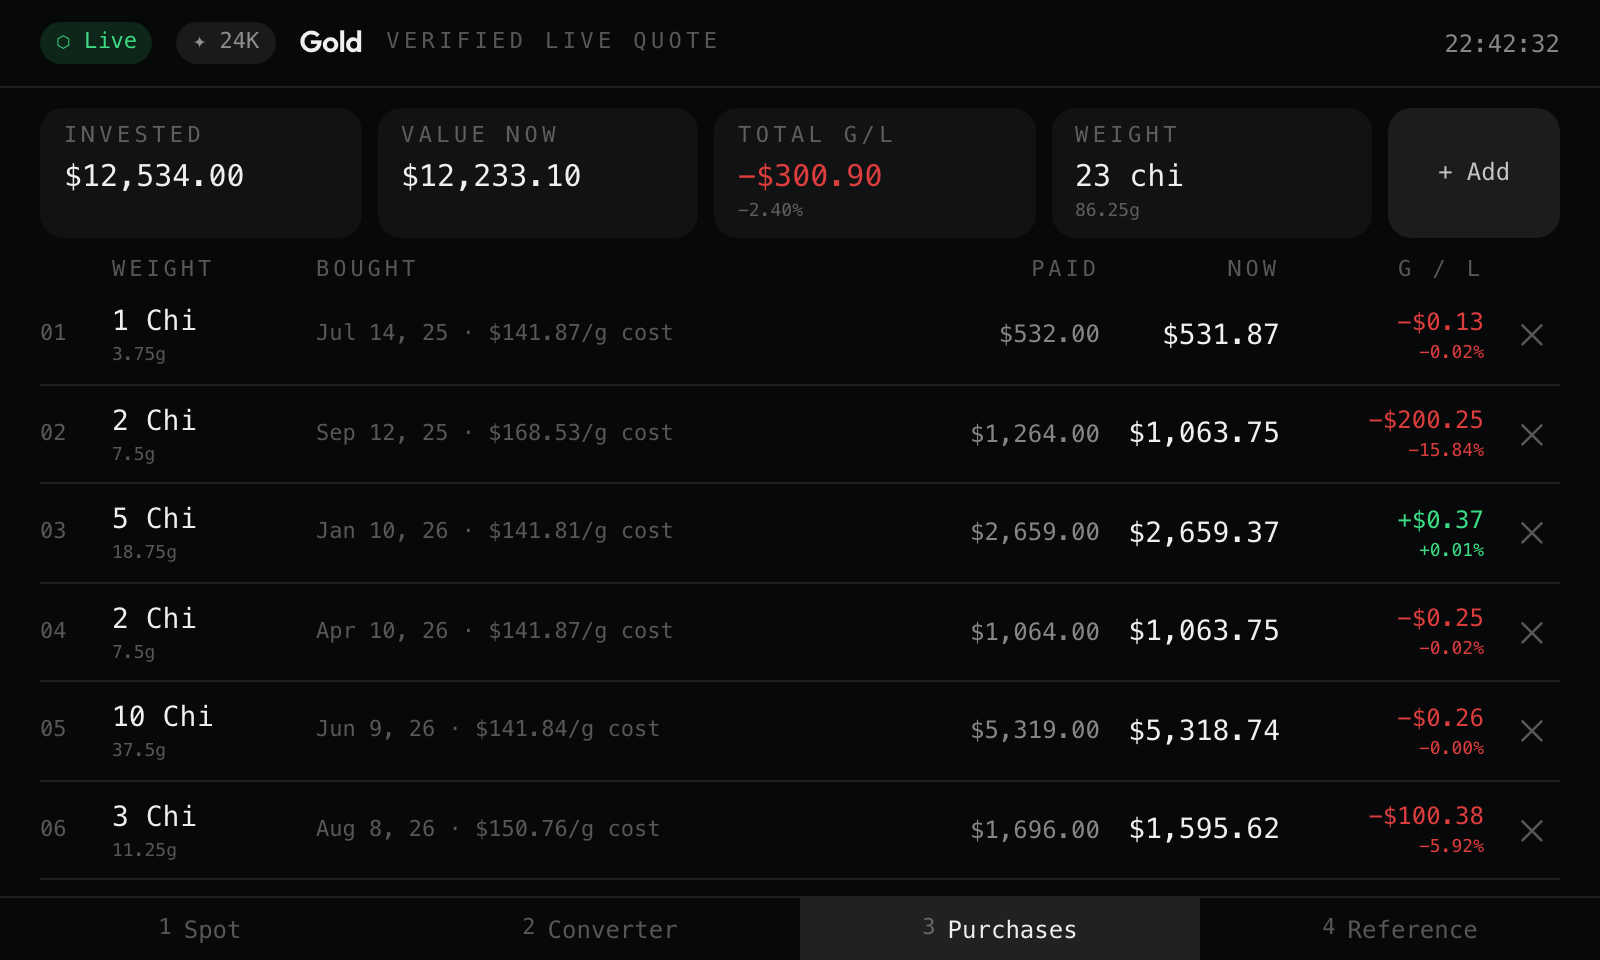
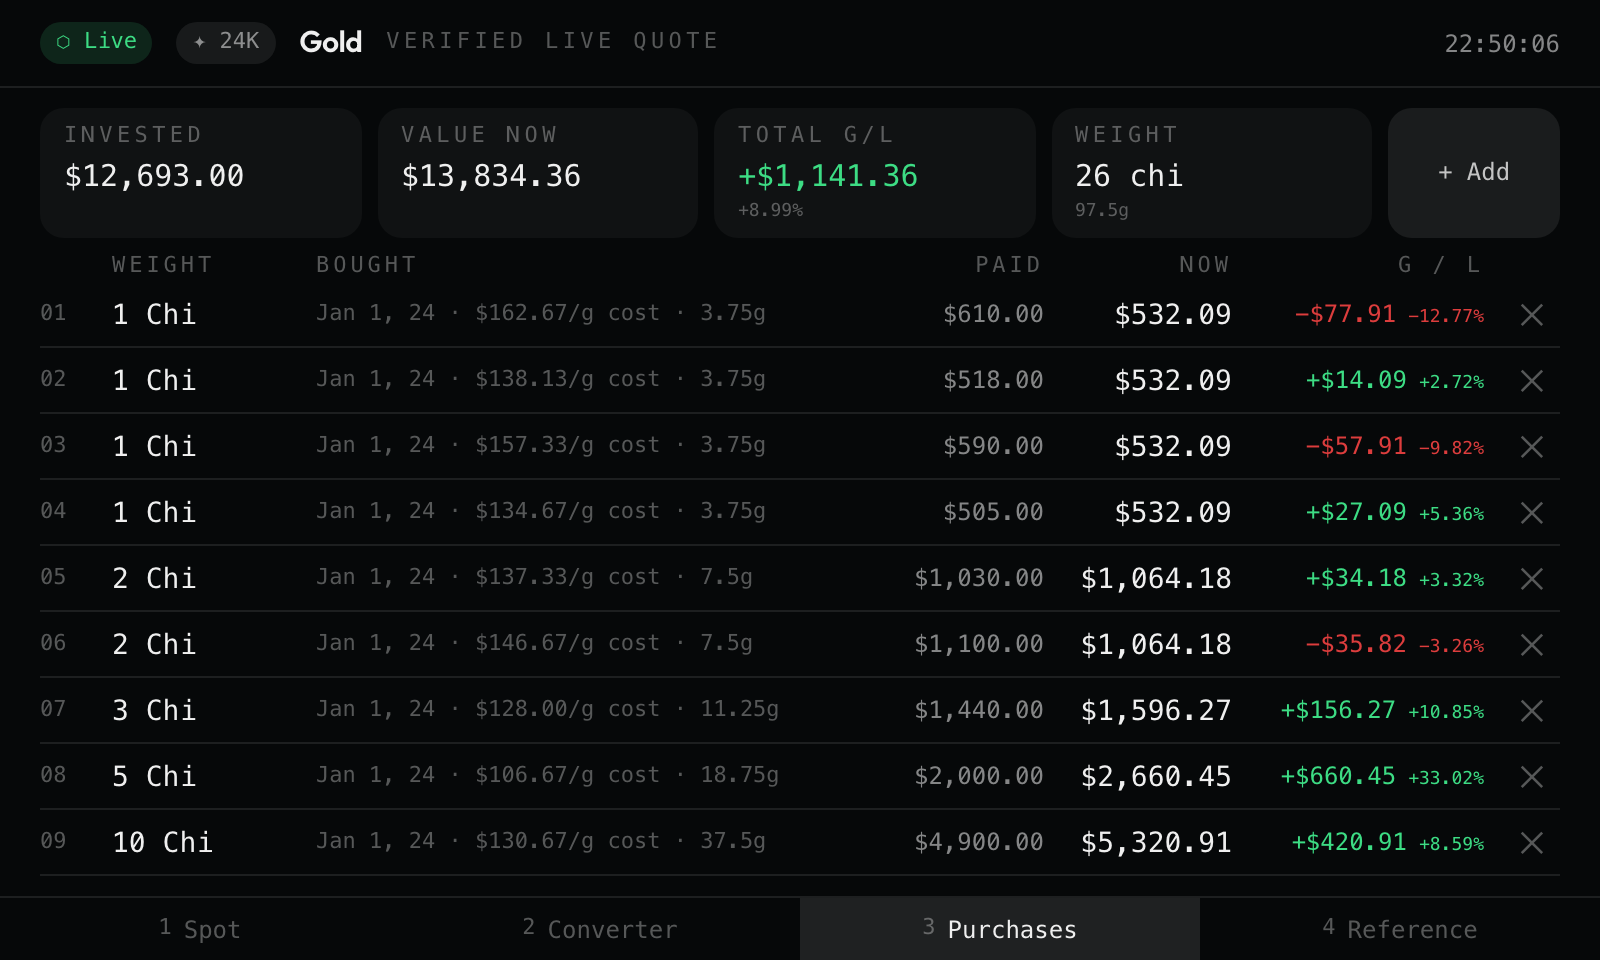
gold-tracker 0.2.0: fit a real holding, and read a CSV
Nine positions paged at six and the ninth row sat under the nav bar. Past six
the rows now go compact and the whole ledger sits on one screen, and the gain
column is wide enough that a loss and its percentage stay on one line rather
than wrapping.

The companion app reads and writes Weight,Unit,Paid,Date, which is what a
spreadsheet exports, so a ledger does not have to be entered on the steppers.

Claude-Session: https://claude.ai/code/session_01DCTuCWNjLE3xwYkahcyuiq

diff --git a/apps/gold-tracker/src/App.tsx b/apps/gold-tracker/src/App.tsx
@@ -639,7 +639,9 @@ function Convert({
   );
 }
 
-const LEDGER_ROWS = 6;
+/** a short ledger gets room to breathe; a long one goes compact so the whole holding fits on screen */
+const ROOMY_ROWS = 6;
+const COMPACT_ROWS = 9;
 
 function Ledger({
   positions,
@@ -661,9 +663,11 @@ function Ledger({
   const value = grams * gramPrice;
   const gain = value - invested;
   const pct = invested > 0 ? (gain / invested) * 100 : 0;
-  const maxScroll = Math.max(0, positions.length - LEDGER_ROWS);
+  const compact = positions.length > ROOMY_ROWS;
+  const perPage = compact ? COMPACT_ROWS : ROOMY_ROWS;
+  const maxScroll = Math.max(0, positions.length - perPage);
   const top = Math.min(scroll, maxScroll);
-  const shown = positions.slice(top, top + LEDGER_ROWS);
+  const shown = positions.slice(top, top + perPage);
 
   return (
     <div className="flex h-full flex-col px-5 py-2.5">
@@ -680,13 +684,16 @@ function Ledger({
       </div>
 
       {positions.length > 0 && (
-        <div className="mt-2 flex items-center gap-2.5 font-mono text-eyebrow tracking-[0.18em] text-dim uppercase">
+        <div
+          className={`flex items-center gap-2.5 font-mono text-eyebrow tracking-[0.18em] text-dim uppercase ${
+            compact ? 'mt-1.5' : 'mt-2'
+          }`}>
           <span className="w-[26px] shrink-0" />
           <span className="w-[92px] shrink-0">Weight</span>
           <span className="min-w-0 flex-1">Bought</span>
-          <span className="w-[76px] shrink-0 text-right">Paid</span>
-          <span className="w-[80px] shrink-0 text-right">Now</span>
-          <span className="w-[92px] shrink-0 text-right">G / L</span>
+          <span className="w-[72px] shrink-0 text-right">Paid</span>
+          <span className="w-[84px] shrink-0 text-right">Now</span>
+          <span className="w-[116px] shrink-0 text-right">G / L</span>
           <span className="w-7 shrink-0" />
         </div>
       )}
@@ -696,18 +703,21 @@ function Ledger({
           <span>
             No purchases recorded yet.
             <br />
-            <span className="text-hint">Add one here, or enter the details in the companion app.</span>
+            <span className="text-hint">Add one here, or paste your CSV into the companion app.</span>
           </span>
         </div>
       ) : (
-        <div className="min-h-0 flex-1">
+        <div className="min-h-0 flex-1 overflow-hidden">
           {shown.map((p, i) => {
             const g = gramsIn(p);
             const current = g * gramPrice;
             const delta = current - p.paid;
             const up = delta >= 0;
+            const deltaPct = p.paid > 0 ? (delta / p.paid) * 100 : 0;
             return (
-              <div key={p.id} className="flex items-center gap-2.5 border-b border-rule py-[7px]">
+              <div
+                key={p.id}
+                className={`flex items-center gap-2.5 border-b border-rule ${compact ? 'py-1' : 'py-[7px]'}`}>
                 <span className="w-[26px] shrink-0 font-mono text-eyebrow text-dim tabular-nums">
                   {String(top + i + 1).padStart(2, '0')}
                 </span>
@@ -715,23 +725,26 @@ function Ledger({
                   <span className="block font-mono text-body">
                     {amountText(p.amount)} {UNIT_LABEL[p.unit]}
                   </span>
-                  <span className="block font-mono text-[9px] text-dim">{gramText(g)}</span>
+                  {!compact && <span className="block font-mono text-[9px] text-dim">{gramText(g)}</span>}
                 </span>
-                <span className="min-w-0 flex-1 font-mono text-eyebrow text-dim">
-                  {shortDate(p.at)} · {usd(p.paid / g)}/g cost
+                <span className="min-w-0 flex-1 truncate font-mono text-eyebrow text-dim">
+                  {shortDate(p.at)} · {usd(p.paid / g)}/g cost{compact ? ` · ${gramText(g)}` : ''}
                 </span>
-                <span className="w-[76px] shrink-0 text-right font-mono text-hint text-soft tabular-nums">
+                <span className="w-[72px] shrink-0 text-right font-mono text-hint text-soft tabular-nums">
                   {usd(p.paid)}
                 </span>
-                <span className="w-[80px] shrink-0 text-right font-mono text-body tabular-nums">{usd(current)}</span>
-                <span className={`w-[92px] shrink-0 text-right font-mono text-hint tabular-nums ${up ? 'text-ok' : 'text-err'}`}>
-                  {signedUsd(delta)}
-                  <span className="block text-[9px]">{signedPct(p.paid > 0 ? (delta / p.paid) * 100 : 0)}</span>
+                <span className="w-[84px] shrink-0 text-right font-mono text-body tabular-nums">{usd(current)}</span>
+                <span
+                  className={`w-[116px] shrink-0 text-right font-mono tabular-nums ${up ? 'text-ok' : 'text-err'} ${
+                    compact ? 'flex items-baseline justify-end gap-1.5 text-hint' : 'text-hint'
+                  }`}>
+                  <span>{signedUsd(delta)}</span>
+                  <span className={compact ? 'text-[9px]' : 'block text-[9px]'}>{signedPct(deltaPct)}</span>
                 </span>
                 <button
                   aria-label={`remove position ${top + i + 1}`}
                   onClick={() => onDrop(p.id)}
-                  className="grid h-7 w-7 shrink-0 place-items-center rounded-full text-dim transition active:scale-90 active:bg-white/10">
+                  className="grid h-6 w-7 shrink-0 place-items-center rounded-full text-dim transition active:scale-90 active:bg-white/10">
                   ✕
                 </button>
               </div>
@@ -740,10 +753,10 @@ function Ledger({
         </div>
       )}
 
-      {positions.length > LEDGER_ROWS && (
+      {positions.length > perPage && (
         <div className="flex items-center justify-between font-mono text-eyebrow text-dim">
           <span>
-            {top + 1}–{Math.min(top + LEDGER_ROWS, positions.length)} of {positions.length}
+            {top + 1}–{Math.min(top + perPage, positions.length)} of {positions.length}
           </span>
           <span className="flex gap-1.5">
             <Step label="up" small onClick={() => onScroll(Math.max(0, top - 1))}>

diff --git a/apps/gold-tracker/settings/main.tsx b/apps/gold-tracker/settings/main.tsx
@@ -49,6 +49,35 @@ function parsePositions(raw: string | null): Position[] {
   }
 }
 
+/** the shape a spreadsheet exports: Weight,Unit,Paid,Date with an optional header row */
+function fromCsv(text: string): Position[] {
+  const out: Position[] = [];
+  const lines = text.trim().split(/\r?\n/);
+  for (const [i, line] of lines.entries()) {
+    if (!line.trim()) continue;
+    const cells = line.split(/[,\t;]/).map(c => c.trim().replace(/^"|"$/g, ''));
+    if (cells.length < 3) continue;
+    const [rawAmount, rawUnit, rawPaid, rawDate] = cells;
+    const amount = Number(rawAmount);
+    const unit = (rawUnit ?? '').toLowerCase();
+    const paid = Number((rawPaid ?? '').replace(/[$,]/g, ''));
+    if (!Number.isFinite(amount) || !Number.isFinite(paid) || !(unit in GRAMS)) continue;
+    const parsed = rawDate ? Date.parse(`${rawDate}T12:00:00`) : NaN;
+    out.push({
+      id: `csv-${i}-${Math.floor(Math.random() * 1e6).toString(36)}`,
+      amount,
+      unit,
+      paid,
+      at: Number.isFinite(parsed) ? parsed : Date.now(),
+    });
+  }
+  return out.sort((a, b) => a.at - b.at);
+}
+
+function toCsv(positions: Position[]) {
+  return ['Weight,Unit,Paid,Date', ...positions.map(p => `${p.amount},${p.unit},${p.paid.toFixed(2)},${dateValue(p.at)}`)].join('\n');
+}
+
 function dateValue(at: number) {
   const d = new Date(Number.isFinite(at) ? at : Date.now());
   return `${d.getFullYear()}-${String(d.getMonth() + 1).padStart(2, '0')}-${String(d.getDate()).padStart(2, '0')}`;
@@ -60,6 +89,7 @@ function Settings() {
   const [values, setValues] = useState<Record<string, string>>({});
   const [positions, setPositions] = useState<Position[]>([]);
   const [status, setStatus] = useState('');
+  const [csv, setCsv] = useState('');
 
   useEffect(() => {
     (async () => {
@@ -203,6 +233,40 @@ function Settings() {
             <span>{Number((grams / GRAMS.chi!).toFixed(4))} chi</span>
             <span>${paid.toFixed(2)} invested</span>
           </div>
+
+          <details className="csv">
+            <summary>Import or export a CSV</summary>
+            <p className="sub">
+              One purchase per line as <code>Weight,Unit,Paid,Date</code>, with or without a header row.
+              Units are li, hun, chi, damlung, gram or ozt, and the date is YYYY-MM-DD. Importing replaces
+              the list below; nothing reaches the device until you save.
+            </p>
+            <textarea
+              rows={6}
+              value={csv}
+              placeholder={'Weight,Unit,Paid,Date\n1,chi,610.00,2024-01-01'}
+              onChange={e => setCsv(e.currentTarget.value)}
+            />
+            <div className="row">
+              <button
+                type="button"
+                className="secondary"
+                onClick={() => {
+                  const parsed = fromCsv(csv);
+                  if (parsed.length === 0) {
+                    setStatus('no usable rows in that CSV');
+                    return;
+                  }
+                  setPositions(parsed);
+                  setStatus(`${parsed.length} positions read, save to send them to the device`);
+                }}>
+                Read the CSV
+              </button>
+              <button type="button" className="secondary" onClick={() => setCsv(toCsv(positions))}>
+                Export what is here
+              </button>
+            </div>
+          </details>
 
           <button
             type="button"

diff --git a/apps/gold-tracker/settings/style.css b/apps/gold-tracker/settings/style.css
@@ -158,3 +158,25 @@ button:disabled {
   opacity: 0.75;
   margin: 6px 0 14px;
 }
+
+.csv {
+  margin: 10px 0 14px;
+}
+
+.csv summary {
+  cursor: pointer;
+  font-size: 0.85rem;
+  font-weight: 600;
+}
+
+.csv textarea {
+  width: 100%;
+  box-sizing: border-box;
+  padding: 8px 10px;
+  font-family: ui-monospace, "SF Mono", Menlo, monospace;
+  font-size: 0.85rem;
+  border: 1px solid color-mix(in srgb, currentColor 25%, transparent);
+  border-radius: 8px;
+  background: transparent;
+  color: inherit;
+}

diff --git a/apps/gold-tracker/CHANGELOG.md b/apps/gold-tracker/CHANGELOG.md
@@ -1,5 +1,14 @@
 # gold-tracker
 
+## 0.2.0
+
+The purchases screen now fits a real holding. Past six positions the rows go compact and the whole
+ledger sits on one screen instead of paging, and the gain column is wide enough that a loss and its
+percentage stay on one line.
+
+The companion app reads and writes CSV: `Weight,Unit,Paid,Date`, one purchase per line, which is
+what a spreadsheet exports.
+
 ## 0.1.0
 
 Live gold spot from a real provider, defaulting to gold-api.com's XAU/USD feed, with the request
